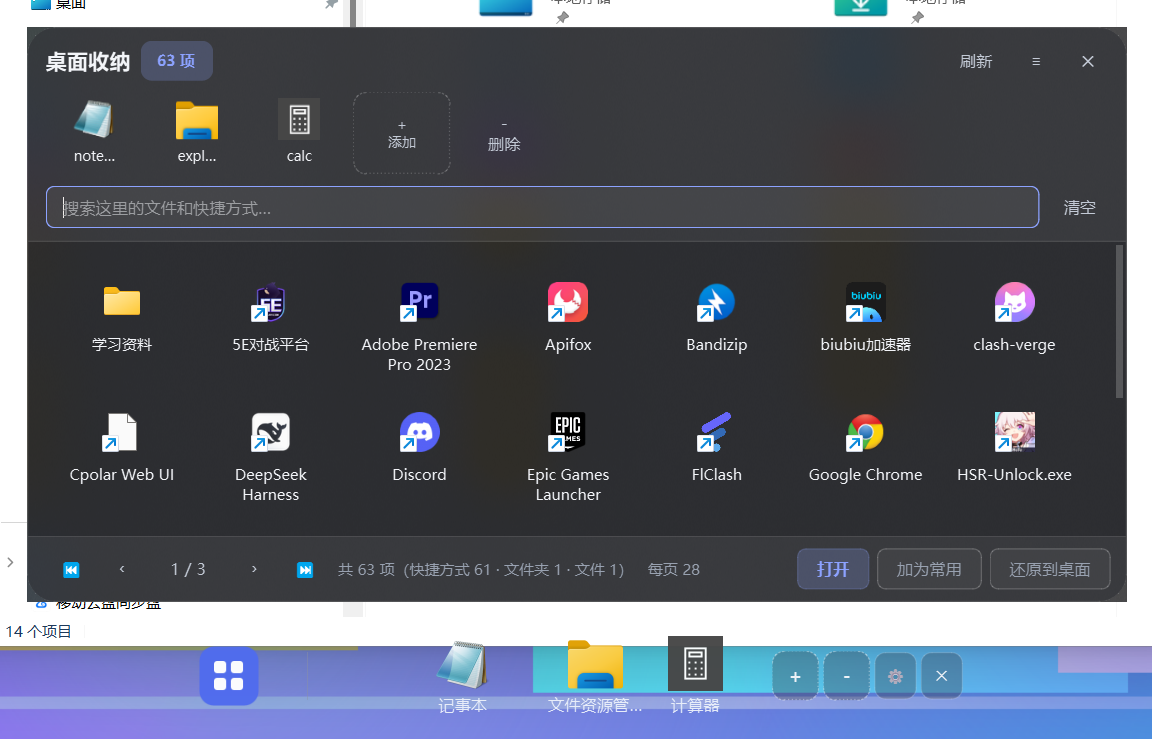
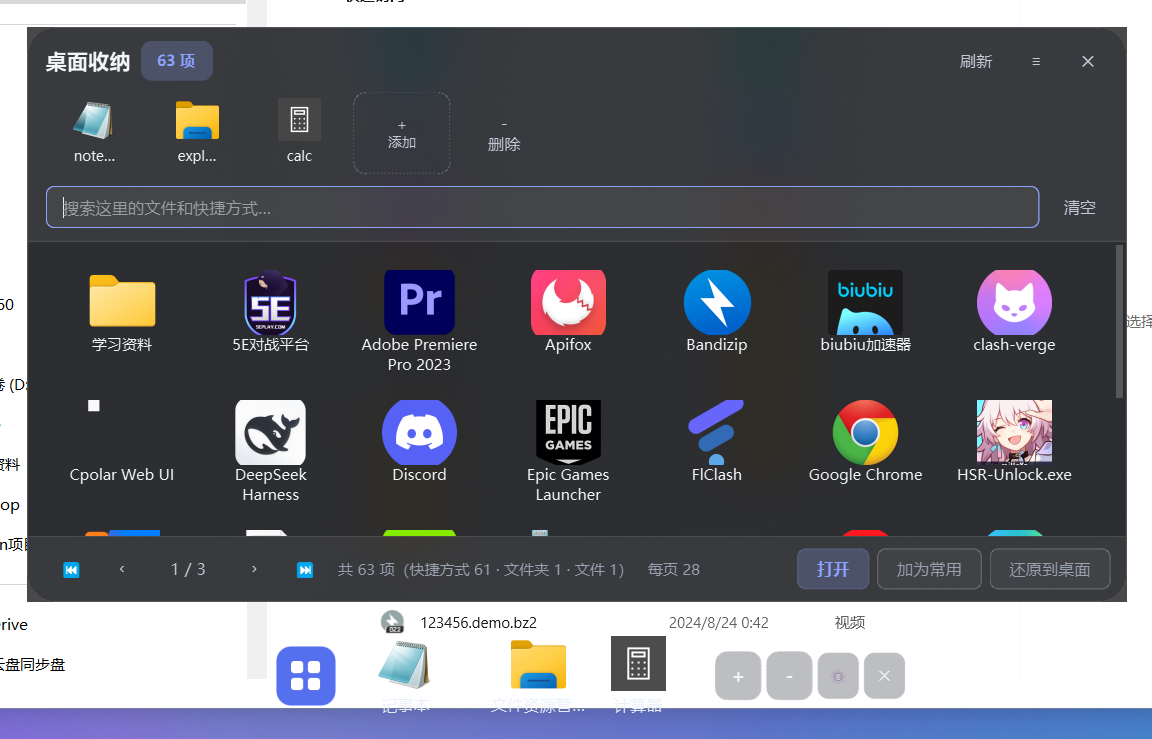
fix: 菜单栏去掉入口右侧的空白格 + 收纳面板图标也取 256px 高清
两项改动（用户复审后追加）：

1. 去掉菜单栏里那块"空白占位格子"
   根因有两半：
   * 应用区是**等宽网格**（FlowLayout.unit_size() 取所有条目里最大的那个当
     格子宽），所以「桌面整理」入口和常用软件之间那根 1px 分隔线也会
     **占满一整格**（≈ 一个图标宽），看着就是一块空白格；
   * 入口没有文字、比带名字的常用项按钮窄，在等宽网格里它自己那格右侧
     还会空出一截（实测 20px）。
   修法：彻底不插分隔线（删掉 _divider() 与 theme.py 的 #DockDivider）；
   新增 DockIcon.set_min_width() + DockBar._align_desktop_button()，
   把入口抬到和常用项按钮一样宽。
   实测：入口与第一个常用项之间的间距 20px → 3px（正好一个 spacing），
   两边图标左右对齐；菜单栏整体宽度 841 → 726 物理 px。

2. 收纳面板的图标也走 256×256 高清
   desktop_browser.py 原来只写了 ICON_REQUEST = 64，可 get_icon() 顶天给
   32×32，于是 48px 的格子其实是把 32 的图拉大 1.5 倍。
   现在 _rebuild_apps()（常用启动行）与 _rebuild()（网格 tile）两处
   request 都带 hi_res=True。主面板那种 16px 列表小图标仍走 32px 档。

顺带修掉一个"测试与实现不同步"的坑：
test_dock_fixes 第 6 节复算"让开"期望值时用的还是更早版本的规则
（"窗口盖住菜单栏那一带"），实现早已把它删掉、换成"宽 ≥98% 显示器且
高 ≥94% 工作区"，于是前台窗口占比落在 40%~80% 时这条用例必然误报失败
（实测 3 次里 2 次）。测试复算已按实现的三条规则重写，tray_app 里那段
过时的 docstring 也一并订正。

自检：430 → 434 项，连跑 4 次全部通过（test_dock_fixes 99 → 103）。
截图重拍四张。

diff --git a/dev/test_dock_fixes.py b/dev/test_dock_fixes.py
@@ -14,12 +14,13 @@
 8. 打开 / 反复翻页收纳面板时，底部菜单栏不会无故消失
 9. 菜单栏底板是**纯透明**的，而且只有一行（图标与控制按钮同一水平线）
 10. 菜单栏图标按钮要装得下自己的文字（高 DPI 下别叠字）
-11. 还没加常用软件时，「＋」左边不该有空隙（分隔线不该无条件插）
+11. 应用区里不该有"空白占位格"（入口和常用项之间不再插分隔线）
 12. 整条菜单栏可以用鼠标拖动（空白处 + 图标上快速拖都行）
 13. 点开软件之后，图标上的高光要跟着消失（不能一直亮着）
 14. 长按鼠标左键可以拖动排序常用软件（有插入指示线，结果写回配置）
 15. 菜单栏图标要用 256×256 的高清原图（旧路径只有 32×32）
 16. Config.move_to：把任意一项挪到任意位置
+17. 收纳面板的图标也走 256×256 高清（网格 + 常用启动行）
 
 用法：python dev/test_dock_fixes.py
 """
@@ -267,20 +268,21 @@ def main() -> int:
         work_h = info.rcWork.bottom - info.rcWork.top
 
         # 这里必须**按实现里的三条规则复算期望值**，不能凭一个面积阈值猜。
-        # 原来写的是 `coverage < 0.4`，跟实现的 `>= 0.80 且高度 >= 90% 工作区`
-        # 不一致：前台窗口占比落在 40%~80% 时，测试必然误报失败。
+        #
+        # ⚠ 曾经这里复算的是"窗口矩形盖住了菜单栏那一带 → 让开"，
+        # 那是**更早版本**的判据；实现后来把它删掉了（普通窗口拖到屏幕底部、
+        # 窗口打开动画的中间帧都会短暂满足它，结果菜单栏疯狂闪烁），
+        # 换成了"宽度也得占够"。测试没跟着改，于是前台窗口占比落在
+        # 40%~80% 且恰好压住菜单栏时，这条用例必然误报失败。
         coverage = (win_w * win_h) / float(work_w * work_h) if work_w and work_h else 0
         expected = False
         if win_w >= mon_w * 0.96 and win_h >= mon_h * 0.96:
             expected = True                       # 规则 1：真全屏，铺满整块显示器
         elif coverage >= 0.80 and win_h >= work_h * 0.90:
             expected = True                       # 规则 2：最大化（按面积占比）
-        elif tray.dock.isVisible():               # 规则 3：盖住菜单栏所在那一带
-            dock_rect = tray.dock.geometry()
-            if (rect.left <= dock_rect.left() and rect.right >= dock_rect.right()
-                    and rect.bottom >= dock_rect.top()):
-                expected = True
-        if tray._foreground_is_self():            # 自己的窗口不算（新增的排除项）
+        elif win_w >= mon_w * 0.98 and win_h >= work_h * 0.94:
+            expected = True                       # 规则 3：接近满宽的窗口
+        if tray._foreground_is_self():            # 自己的窗口不算
             expected = False
         if tray._desktop_is_foreground():         # 桌面本身在前台不算
             expected = False
@@ -516,7 +518,10 @@ def main() -> int:
           f"窗口 w={dock.width()} | apps_flow w={dock.apps_flow.width()} "
           f"items={dock.apps_flow.item_count()} cols={dock.apps_flow._columns}")
 
-    # 有常用项时分隔线要回来（图标和入口之间需要一点视觉区分）
+    # 加了常用项之后**依然没有分隔线**：应用区里只有「桌面整理」+ 常用项。
+    # 根因是应用区按**等宽网格**排（`unit_size()` 取所有条目里最大的那个），
+    # 那根 1px 的竖线也会占满一整格（≈ 一个图标的宽度），看上去就是一块
+    # "空白占位格子"——用户圈出来要删的正是它。
     quick_sources = [i for i in tray.nest_items if i.kind == "shortcut"][:4]
     check("有足够的快捷方式来做常用项（≥3 个）", len(quick_sources) >= 3,
           str(len(quick_sources)))
@@ -524,9 +529,20 @@ def main() -> int:
         cfg.add_quick(source_item.path, source_item.name)
     rebuild_dock()
     wait_until(lambda: len(dock._app_buttons) == len(quick_sources), 5)
-    check("加了常用项之后分隔线会回来",
-          dock.apps_flow.item_count() == len(quick_sources) + 2,
-          f"{dock.apps_flow.item_count()} vs {len(quick_sources) + 2}")
+    check("加了常用项之后也没有多出占位格（入口 + 常用项，一个不多）",
+          dock.apps_flow.item_count() == len(quick_sources) + 1,
+          f"{dock.apps_flow.item_count()} vs {len(quick_sources) + 1}")
+    # 关键：入口和第一个常用项之间只隔"一点点"，绝不能是一整格的宽度
+    # （一整格 ≈ 一个图标宽，那正是"空白占位格子"的样子）。
+    first_app = dock._app_buttons[0]
+    entry_right = (dock.desktop_btn.mapTo(dock, QPoint(0, 0)).x()
+                   + dock.desktop_btn.width())
+    first_left = first_app.mapTo(dock, QPoint(0, 0)).x()
+    entry_gap = first_left - entry_right
+    unit_w = dock.apps_flow.unit_size().width()
+    check(f"入口与第一个常用项之间只有一点间距（{entry_gap}px，远小于一格 {unit_w}px）",
+          0 <= entry_gap < unit_w * 0.5,
+          f"{entry_gap}px vs unit {unit_w}px")
     check("主行里的弹性占位项没有越积越多（重建会清掉旧的）",
           sum(1 for i in range(dock.main_row.count())
               if dock.main_row.itemAt(i).spacerItem() is not None) == 1,
@@ -716,6 +732,31 @@ def main() -> int:
           and [e["name"] for e in cfg.quick_items] == ["D", "B", "C", "A"],
           str([e["name"] for e in cfg.quick_items]))
     check("非法来源下标返回 False", cfg.move_to(9, 0) is False)
+
+    print()
+    print("── 17. 收纳面板的图标也走 256×256 高清 ──")
+    browser = tray.desktop_browser
+    # 第 16 节把常用项换成了 A/B/C/D 这种假路径，先装回真实的
+    cfg.set("quick_items", [{"path": str(i.path), "name": i.name}
+                            for i in quick_sources])
+    # 清掉 loader 的缓存与队列，逼它把取图请求**重新排一遍**，
+    # 这样才看得到"请求里到底带没带高清标记"（命中缓存时会直接跳过）。
+    browser.loader._timer.stop()
+    browser.loader._queue.clear()
+    browser.loader._cache.clear()
+    browser.set_items(tray.nest_items)
+    queued = list(browser.loader._queue)
+    check("收纳面板重新取图时确实排了活", len(queued) > 0, str(len(queued)))
+    check("收纳面板的取图请求**全部**带高清标记（网格 + 常用启动行）",
+          bool(queued) and all(item[-1] is True for item in queued),
+          f"hi_res 标记集合：{sorted({item[-1] for item in queued})}")
+    # 网格图标要显示 48px、常用启动行 34px，都超过旧路径的 32×32 上限，
+    # 所以两处都必须走 get_icon_best()，钉住别再退回 32px 档。
+    check("收纳面板请求的尺寸确实超过旧路径上限（>32）",
+          all(item[3] > 32 for item in queued),
+          str(sorted({item[3] for item in queued})))
+    browser.loader._timer.stop()
+    browser.loader._queue.clear()
 
     print()
     print(f"通过 {len(PASS)} 项，失败 {len(FAIL)} 项")

diff --git a/dock.py b/dock.py
@@ -254,6 +254,8 @@ class DockIcon(QToolButton):
         super().__init__(parent)
         self.icon_size = icon_size
         self._show_text = show_text
+        # 由 DockBar 抬高，用来跟同一行里的按钮对齐（见 set_min_width）。
+        self._min_width = 0
         self.setObjectName("DockIcon")
         self.setAutoRaise(True)
         self.setCursor(Qt.CursorShape.PointingHandCursor)
@@ -298,10 +300,23 @@ class DockIcon(QToolButton):
         """
         self.ensurePolished()
         if not self._show_text:
-            self.setFixedSize(self.icon_size + 14, self.icon_size + 14)
+            self.setFixedSize(max(self.icon_size + 14, self._min_width),
+                              self.icon_size + 14)
             return
         text_width = QFontMetrics(self.font()).horizontalAdvance(self.text() or "")
-        self.setFixedSize(max(self.icon_size + 20, text_width + 14), self.icon_size + 26)
+        self.setFixedSize(max(self.icon_size + 20, text_width + 14, self._min_width),
+                          self.icon_size + 26)
+
+    def set_min_width(self, width: int) -> None:
+        """把"最小宽度"抬高，用来和同一行里的其他按钮对齐。
+
+        应用区是**等宽网格**（`FlowLayout.unit_size()` 取所有条目里最大的那个
+        当格子宽）。「桌面整理」入口没有文字、比常用项按钮窄，不抬的话
+        它右边就会空出一截——看上去正好是一块"空白占位格子"。
+        抬到和常用项一样宽之后，两者之间就只剩布局自身的一个 spacing。
+        """
+        self._min_width = max(0, int(width))
+        self._refit()
 
     def setText(self, text: str) -> None:  # noqa: N802
         super().setText(text)
@@ -372,7 +387,7 @@ class DockBar(QWidget):
                               or DEFAULT_ICON_SIZE)
         self._drag_offset = None
         self._buttons: "list[DockIcon]" = []
-        # 常用启动的按钮，**顺序与 cfg.quick_items 一一对应**（不含「桌面整理」和分隔线）。
+        # 常用启动的按钮，**顺序与 cfg.quick_items 一一对应**（不含「桌面整理」入口）。
         # 拖动排序全靠它算目标槽位。
         self._app_buttons: "list[DockIcon]" = []
         # 收纳目录内容：不再显示在菜单栏上，只作为「＋ → 从收纳内容里选…」的候选
@@ -503,12 +518,6 @@ class DockBar(QWidget):
         return (sum(b.width() for b in self._control_buttons)
                 + gap * (len(self._control_buttons) + 1))
 
-    def _divider(self) -> QFrame:
-        line = QFrame(self.surface)
-        line.setObjectName("DockDivider")
-        line.setFixedWidth(1)
-        return line
-
     def _build_apps(self) -> None:
         """把「桌面整理」入口和常用启动图标填进可换行的应用区。"""
         # ---- 第一个控件：桌面整理 ----
@@ -522,14 +531,12 @@ class DockBar(QWidget):
         )
         self.apps_flow.add_item(self.desktop_btn)
 
-        # 分隔线**只在真有常用项时才插**。
-        # 以前是无条件插一根，于是"还没加任何常用软件"时，＋ 左边就凭空多出
-        # 1px 线 + 左右各 5px margin + 两侧 3px 间距 ≈ 17px 的空隙——
-        # 用户看到的就是图一那个莫名其妙的空档。
-        if self.cfg.quick_items:
-            separator = self._divider()
-            separator.setFixedHeight(self._icon_size + 10)
-            self.apps_flow.add_item(separator)
+        # ⚠ 这里**不再插分隔线**。
+        # 应用区是等宽网格（`FlowLayout.unit_size()` 取所有条目里最大的那个），
+        # 所以那根 1px 的竖线也会**占满一整格**（≈ 一个图标的宽度），
+        # 「桌面整理」入口和第一个常用软件之间就凭空多出一块空白格——
+        # 用户圈出来要删的"空白占位格子"正是它。
+        # 现在两类图标只隔布局自身的一个 spacing，没有多余的空档。
 
         # ---- 常用启动 ----
         for entry in self.cfg.quick_items:
@@ -561,6 +568,24 @@ class DockBar(QWidget):
                 lambda _btn, pos, e=entry, b=button: self._quick_menu(b, e, pos))
             self.apps_flow.add_item(button)
             self._app_buttons.append(button)
+
+        # 初次对齐。字体在窗口显示出来之后才真正生效、按钮宽度会变，
+        # 所以 `_resize_to_content()` 每次还会再校一次（见 `_align_desktop_button`）。
+        self._align_desktop_button()
+
+    def _align_desktop_button(self) -> None:
+        """把「桌面整理」入口抬到和常用项按钮一样宽。
+
+        应用区是**等宽网格**：入口没有文字、比常用项按钮窄，不抬的话
+        它右边会空出一截（用户圈出来要删的"空白占位格子"的一半原因）。
+        抬齐之后，入口和第一个常用项之间就只剩布局自身的一个 spacing，
+        两边的图标也正好左右对齐。
+        """
+        if not self._app_buttons or getattr(self, "desktop_btn", None) is None:
+            return
+        widest = max(self.apps_flow._effective_size(b).width()      # noqa: SLF001
+                     for b in self._app_buttons)
+        self.desktop_btn.set_min_width(widest)
 
     # ------------------------------------------------------------------
     # 内容
@@ -647,6 +672,9 @@ class DockBar(QWidget):
     def _resize_to_content(self) -> None:
         """按内容算出该多大并应用（`refit` 与 `_settle` 共用）。"""
         max_width = self._max_width()
+        # 入口要和常用项按钮一样宽。字体是窗口显示之后才真正生效的，
+        # 按钮宽度会跟着变，所以每次重算尺寸前都再对齐一次（幂等）。
+        self._align_desktop_button()
         # 先让应用区按可用宽度决定每行放几个（放不下就换行，而不是被挤扁）。
         # 控制按钮现在和图标同处一行，所以要把它们占的宽度先扣掉，
         # 否则应用区会按"整行都归我"来排，把 ＋ ⚙ ✕ 挤出屏幕外面。
@@ -1045,7 +1073,7 @@ class DockBar(QWidget):
         # mode == "" → 什么都没发生，按钮自己会按"点击"处理
 
     def _app_index(self, button: DockIcon) -> int:
-        """按钮在**常用软件**里的下标（不含「桌面整理」和分隔线）；不在里面返回 -1。"""
+        """按钮在**常用软件**里的下标（不含「桌面整理」入口）；不在里面返回 -1。"""
         try:
             return self._app_buttons.index(button)
         except ValueError:

diff --git a/desktop_browser.py b/desktop_browser.py
@@ -440,8 +440,11 @@ class DesktopBrowser(GlassCardMixin, QWidget):
             if cached_icon is not None:
                 button.setIcon(cached_icon)
             else:
+                # hi_res=True：这一排要显示 APP_ICON(34px) 的图标，
+                # 而 SHGetFileInfoW 顶天只给 32×32，硬拉到 34 就糊了。
+                # 走 get_icon_best() 拿 256×256 原图再由 Qt 缩下来。
                 self.loader.request(key, path, icon_hint_for(path),
-                                     ICON_REQUEST, name)
+                                     ICON_REQUEST, name, hi_res=True)
 
         self.btn_add_app = QToolButton(self.apps_host)
         self.btn_add_app.setObjectName("AppAdd")
@@ -659,7 +662,10 @@ class DesktopBrowser(GlassCardMixin, QWidget):
             if cached_icon is not None:
                 tile.set_icon(cached_icon)
             else:
-                self.loader.request(key, item.path, hint, ICON_REQUEST, item.name)
+                # 网格里的图标显示 GRID_ICON(48px)，比 32×32 的 LARGEICON 大，
+                # 不开 hi_res 就是硬放大 → 糊。这里和菜单栏用同一套 256px 原图。
+                self.loader.request(key, item.path, hint, ICON_REQUEST, item.name,
+                                    hi_res=True)
 
         total_cells = ((len(page_items) + columns - 1) // columns) * columns
         for index in range(len(page_items), total_cells):

diff --git a/tray_app.py b/tray_app.py
@@ -573,9 +573,14 @@ class TrayApp(QWidget):
         """前台窗口是不是"占满屏幕"、会挡住菜单栏的类型。
 
         判据（任一成立就让开）：
-        * 真全屏：铺满整块显示器；
-        * **最大化**：窗口外框基本铺满工作区（工作区 = 显示器减去任务栏）；
-        * 窗口矩形盖住了菜单栏那一带。
+        * 真全屏：铺满整块显示器（宽高都 ≥96%）；
+        * **最大化**：窗口面积占工作区 ≥80% 且高度 ≥90%（工作区 = 显示器减任务栏）；
+        * 接近满宽：宽度 ≥98% 显示器且高度 ≥94% 工作区。
+
+        ⚠ 这里**没有**"只要盖住菜单栏那一带就让开"这条规则：
+        普通窗口拖到屏幕底部、窗口打开动画的中间帧都会短暂满足它，
+        结果就是菜单栏疯狂闪烁（"打开非全屏软件菜单栏频繁闪烁"就是这么来的）。
+        所以只认"够大"的窗口，宽度也得占够。
 
         注意：**不能用 `IsZoomed()` 判断最大化**。实测 Chrome 这类自绘标题栏的
         程序不设置 `WS_MAXIMIZE` 风格位，`IsZoomed` 一直返回 0，

diff --git a/theme.py b/theme.py
@@ -523,14 +523,6 @@ QScrollArea > QWidget > QWidget {{ background: transparent; }}
 }}
 #DockNav:hover {{ background: rgba(52, 56, 66, 0.62); border-color: rgba(255, 255, 255, 90); }}
 #DockNav:disabled {{ color: rgba(242, 244, 248, 90); background: rgba(52, 56, 66, 0.16); }}
-#DockDivider {{
-    background: rgba(140, 146, 158, 0.45);
-    border: none;
-    margin-top: 8px;
-    margin-bottom: 8px;
-    margin-left: 5px;
-    margin-right: 5px;
-}}
 #DockAdd, #DockDel {{
     background: rgba(52, 56, 66, 0.34);
     border: 1px dashed rgba(255, 255, 255, 90);
